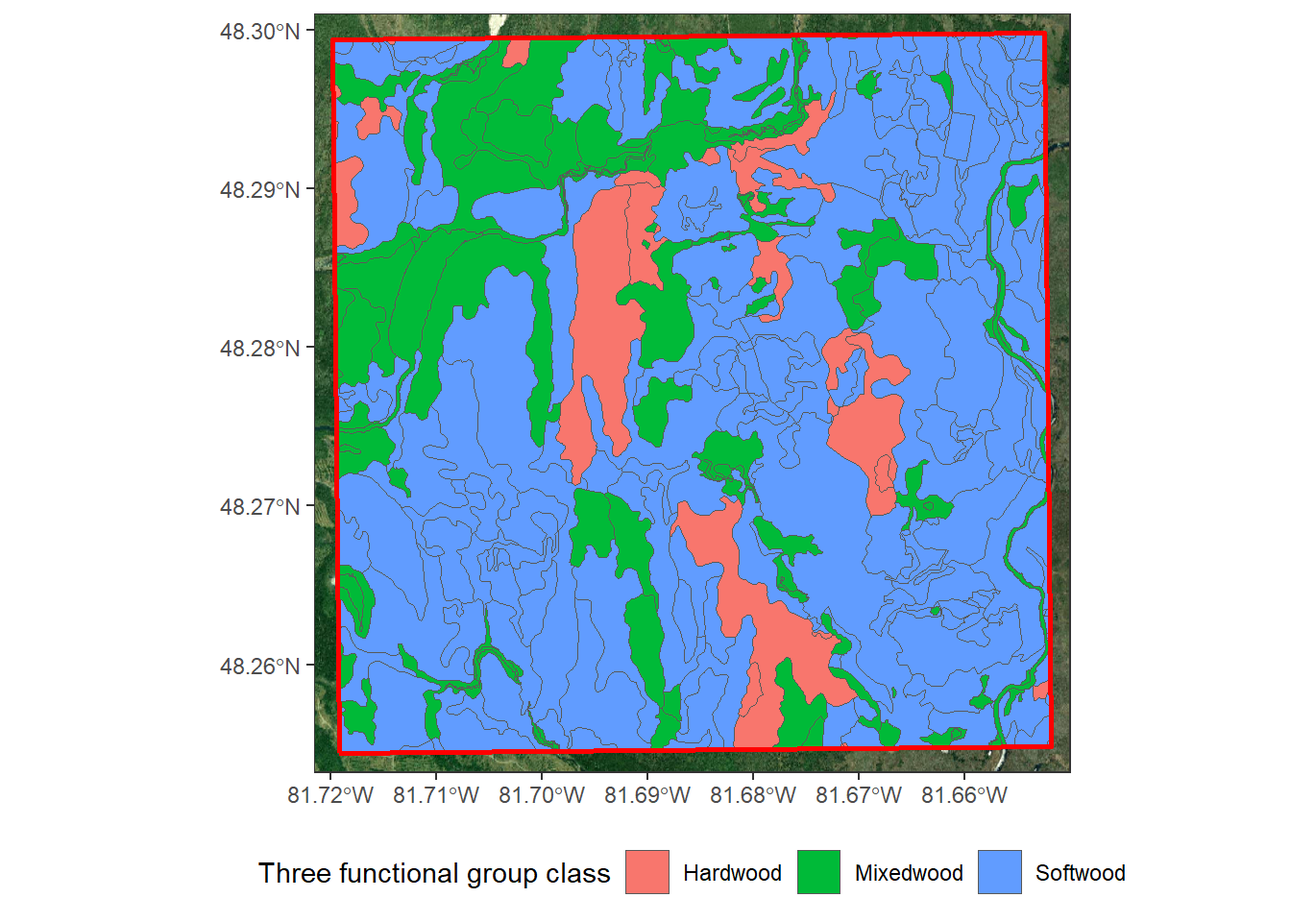
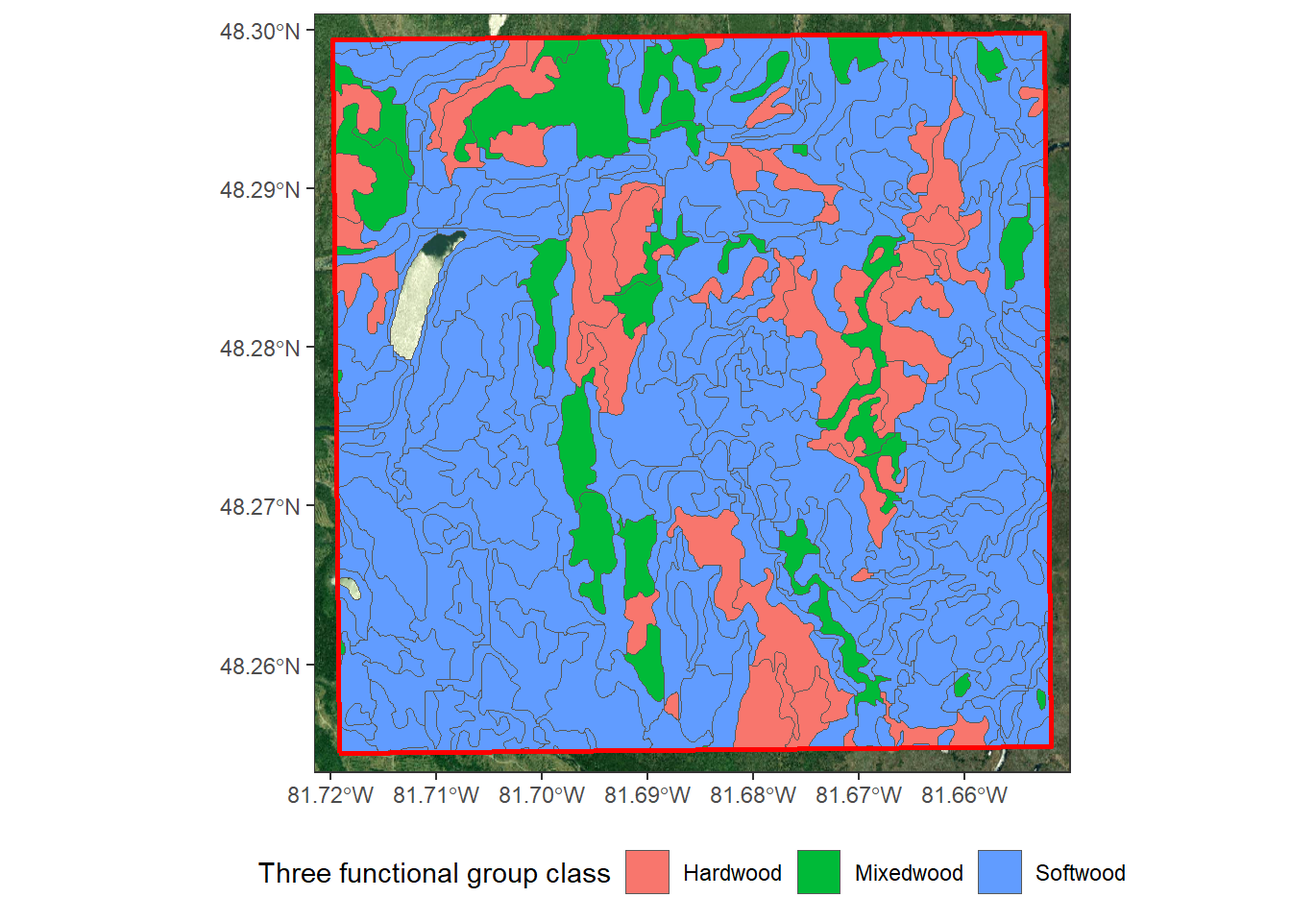
Render site

Changed region(s): [[0.25, 0.0312, 0.8125, 0.8125], [0.5, 0.75, 0.5625, 0.8125]]

diff --git a/docs/project_outputs.html b/docs/project_outputs.html
@@ -153,9 +153,11 @@ window.Quarto = {
     <h2 id="toc-title">On this page</h2>
    
   <ul>
-  <li><a href="#segmentation-results" id="toc-segmentation-results" class="nav-link active" data-scroll-target="#segmentation-results"><strong>1</strong> Automated stand delineation</a></li>
+  <li><a href="#segmentation-results" id="toc-segmentation-results" class="nav-link active" data-scroll-target="#segmentation-results"><strong>1</strong> Automated stand delineation</a>
+  <ul class="collapse">
   <li><a href="#segmentation-results-fmu" id="toc-segmentation-results-fmu" class="nav-link" data-scroll-target="#segmentation-results-fmu"><strong>1.1</strong> Delineation products at the Forest Management Unit scale</a></li>
   <li><a href="#segmentation-results-example" id="toc-segmentation-results-example" class="nav-link" data-scroll-target="#segmentation-results-example"><strong>1.2</strong> Additionnal parameters</a></li>
+  </ul></li>
   <li><a href="#attribute-table-results" id="toc-attribute-table-results" class="nav-link" data-scroll-target="#attribute-table-results"><strong>2</strong> Example of the final attributed polygon dataset</a>
   <ul class="collapse">
   <li><a href="#attribute-table-results-imputation" id="toc-attribute-table-results-imputation" class="nav-link" data-scroll-target="#attribute-table-results-imputation"><strong>2.1</strong> Imputation results</a></li>
@@ -167,9 +169,9 @@ window.Quarto = {
   <li><a href="#internal-polygon-homogeneity" id="toc-internal-polygon-homogeneity" class="nav-link" data-scroll-target="#internal-polygon-homogeneity"><strong>3.3</strong> Internal polygon homogeneity</a></li>
   <li><a href="#correspondence-structural-transition" id="toc-correspondence-structural-transition" class="nav-link" data-scroll-target="#correspondence-structural-transition"><strong>3.4</strong> Correspondence of stand boundaries with structural transitions</a></li>
   </ul></li>
-  <li><a href="#final-polygon" id="toc-final-polygon" class="nav-link" data-scroll-target="#final-polygon"><strong>3</strong> Final polygon-based eFRI products and tools</a></li>
-  <li><a href="#interactive-tool" id="toc-interactive-tool" class="nav-link" data-scroll-target="#interactive-tool"><strong>4</strong> Interactive automated stand delineation tool</a></li>
-  <li><a href="#additionnal-data" id="toc-additionnal-data" class="nav-link" data-scroll-target="#additionnal-data"><strong>5</strong> Additionnal data</a></li>
+  <li><a href="#final-polygon" id="toc-final-polygon" class="nav-link" data-scroll-target="#final-polygon"><strong>4</strong> Final polygon-based eFRI products and tools</a></li>
+  <li><a href="#interactive-tool" id="toc-interactive-tool" class="nav-link" data-scroll-target="#interactive-tool"><strong>5</strong> Interactive automated stand delineation tool</a></li>
+  <li><a href="#additionnal-data" id="toc-additionnal-data" class="nav-link" data-scroll-target="#additionnal-data"><strong>6</strong> Additionnal data</a></li>
   </ul>
 </nav>
     </div>
@@ -203,7 +205,7 @@ window.Quarto = {
 
 <section id="segmentation-results" class="level1 unnumbered">
 <h1 class="unnumbered"><strong>1</strong> Automated stand delineation</h1>
-<p>In this section and the <a href="#attribute-table-results">next one</a>, the “SPL + S2 red edge” segmentation model was use. As a reminder, the metrics used for this model are theses one : z_p95 + z_above2 + B6. There is a visual example of the metrics used in the <a href="#segmentation-results-example">section 1.2</a>. For both the Romeo Malette Forest (RMF) and Ottawa Valley Forest (OVF), distribution of area and shape index will be showed for the whole Forest Management Unit scale (in yellow in the figure 1 and 2). Furthermore, a visual example of resulting automated stand delineation that was smoothed in ArcGIS will be shown for a closer subset area (in red in the figure 1 and 2). The restricted area of 5x5 km allows for easier visualization.</p>
+<p>In this section and the <a href="#attribute-table-results">next one</a>, the “SPL + S2 red edge” segmentation model was use. As a reminder, the metrics used for this model are theses one : z_p95 + z_above2 + B6. There is a visual example of the metrics used in the <a href="./data_and_method.html#Segmentation-generation">section 2.4 of Data and Methods</a>. For both the Romeo Malette Forest (RMF) and Ottawa Valley Forest (OVF), distribution of area and shape index will be showed for the whole Forest Management Unit scale (in yellow in the figure 1 and 2). Furthermore, a visual example of resulting automated stand delineation that was smoothed in ArcGIS will be shown for a closer subset area (in red in the figure 1 and 2). The restricted area of 5x5 km allows for easier visualization.</p>
 <div class="cell">
 <div class="cell-output-display">
 <div id="fig-study-area-subset-rmf" class="quarto-float quarto-figure quarto-figure-center anchored">
@@ -232,9 +234,8 @@ Figure&nbsp;2. Restricted area of 5x5 km in Ottawa Valley Forest.
 </div>
 </div>
 </div>
-</section>
-<section id="segmentation-results-fmu" class="level1 unnumbered">
-<h1 class="unnumbered"><strong>1.1</strong> Delineation products at the Forest Management Unit scale</h1>
+<section id="segmentation-results-fmu" class="level2 unnumbered">
+<h2 class="unnumbered anchored" data-anchor-id="segmentation-results-fmu"><strong>1.1</strong> Delineation products at the Forest Management Unit scale</h2>
 <p>The next figure provide an overview of the resulting smoothed automated stand delineation for RMF in the restricted areas of 5x5 km.</p>
 <div class="cell">
 <div class="cell-output-display">
@@ -298,7 +299,7 @@ Figure&nbsp;6. Photo-interpreted forest inventory polygons for the Forest Manage
 <p>The automated stand delineations can be now compared to photo-interpreted forest inventory polygons for the whole Forest Management Units. Density plots are used to assess whether the distribution of the size and shape are similar. Based on previous parameters obtained by the <a href="https://metafor-ulaval.github.io/Ontario_eFRI/segmentation_parameters_optimisation.html">segmentation parameters optimisation</a>, the difference between distributions are supposed to be minimal and therefore the automated stand delineation should represent operationally plausible forest stand that mimic polygons of the photo-interpreted forest inventory polygons.</p>
 <p>Area in hectare is use for size and shape index is use to assess polygon shape. The shape index is determine by this formula :</p>
 <p><span class="math display">\[
-ShapeIndex = \frac{\text{Perimeter}}{2\sqrt{\pi \times \text{Area}}}
+ShapeIndex = \frac{\text{Perimeter}}{\sqrt{\pi \times \text{Area}}}
 \]</span></p>
 <p>The density plot were computed at the pixel level and are therefore area-weighted.</p>
 <div class="cell">
@@ -358,8 +359,8 @@ Figure&nbsp;10. Polygon shape index density of photo-interpreted forest inventor
 </div>
 </div>
 </section>
-<section id="segmentation-results-example" class="level1 unnumbered">
-<h1 class="unnumbered"><strong>1.2</strong> Additionnal parameters</h1>
+<section id="segmentation-results-example" class="level2 unnumbered">
+<h2 class="unnumbered anchored" data-anchor-id="segmentation-results-example"><strong>1.2</strong> Additionnal parameters</h2>
 <p>It is recommended to perform a smoothing step that can be made later in ArcGIS Pro or any GIS with a smoothing tool that keep the topology of adjacent polygons. The tool use in this case is “Smooth Polygon” of the toolbox “Cartography”. The parameters used are as follow :</p>
 <ul>
 <li>algorithm = “PAEK”;</li>
@@ -428,6 +429,7 @@ Figure&nbsp;14. Resulting polygon after the masks applications.
 </div>
 </div>
 </section>
+</section>
 <section id="attribute-table-results" class="level1 unnumbered">
 <h1 class="unnumbered"><strong>2</strong> Example of the final attributed polygon dataset</h1>
 <p>In addition to producing automated stand delineations, the project generated attributed polygon datasets intended to support forest inventory applications. Each polygon is associated with forest attributes obtained directly from available geospatial datasets or estimated using the procedures described in the Data and Methods section.</p>
@@ -449,13 +451,13 @@ Figure&nbsp;15. Forest age
 </div>
 <div class="cell">
 <div class="cell-output-display">
-<div id="fig-eFRI-attibut-last-perturbation" class="quarto-float quarto-figure quarto-figure-center anchored">
+<div id="fig-eFRI-attibut-last-disturbance" class="quarto-float quarto-figure quarto-figure-center anchored">
 <figure class="quarto-float quarto-float-fig figure">
-<div aria-describedby="fig-eFRI-attibut-last-perturbation-caption-0ceaefa1-69ba-4598-a22c-09a6ac19f8ca">
-<img src="project_outputs_files/figure-html/fig-eFRI-attibut-last-perturbation-1.png" class="img-fluid figure-img" width="672">
+<div aria-describedby="fig-eFRI-attibut-last-disturbance-caption-0ceaefa1-69ba-4598-a22c-09a6ac19f8ca">
+<img src="project_outputs_files/figure-html/fig-eFRI-attibut-last-disturbance-1.png" class="img-fluid figure-img" width="672">
 </div>
-<figcaption class="quarto-float-caption-bottom quarto-float-caption quarto-float-fig" id="fig-eFRI-attibut-last-perturbation-caption-0ceaefa1-69ba-4598-a22c-09a6ac19f8ca">
-Figure&nbsp;16. Year of last perturbation
+<figcaption class="quarto-float-caption-bottom quarto-float-caption quarto-float-fig" id="fig-eFRI-attibut-last-disturbance-caption-0ceaefa1-69ba-4598-a22c-09a6ac19f8ca">
+Figure&nbsp;16. Year of last disturbance
 </figcaption>
 </figure>
 </div>
@@ -581,12 +583,12 @@ Table&nbsp;1. Imputation combinations and their accuracy for the tree imputed va
 <p>The map below shows the imputed three functional group class (softwood, hardwood and mixedwood). The map at the right show the reference layer used to impute this variable. Even if the accuracy of this imputed variable is quite high, at 73.65 %, the map illustrate that there is still some discrepancy between the reference layer and the automated stand delineation. As there is more and more raster layers characterizing tree species with modeling like Random Forest, and at a quite high accuracy, we therefore recommend to directly extract theses attributes where the segmented polygon are. Theses attributes, like tree species, could therefore be used to infer other information like the tree functionial group class shown below.</p>
 <div class="cell">
 <div class="cell-output-display">
-<div id="fig-imputation-segmentation" class="quarto-float quarto-figure quarto-figure-center anchored">
+<div id="fig-imputation-fri" class="quarto-float quarto-figure quarto-figure-center anchored">
 <figure class="quarto-float quarto-float-fig figure">
-<div aria-describedby="fig-imputation-segmentation-caption-0ceaefa1-69ba-4598-a22c-09a6ac19f8ca">
-<img src="project_outputs_files/figure-html/fig-imputation-segmentation-1.png" class="img-fluid figure-img" width="672">
+<div aria-describedby="fig-imputation-fri-caption-0ceaefa1-69ba-4598-a22c-09a6ac19f8ca">
+<img src="project_outputs_files/figure-html/fig-imputation-fri-1.png" class="img-fluid figure-img" width="672">
 </div>
-<figcaption class="quarto-float-caption-bottom quarto-float-caption quarto-float-fig" id="fig-imputation-segmentation-caption-0ceaefa1-69ba-4598-a22c-09a6ac19f8ca">
+<figcaption class="quarto-float-caption-bottom quarto-float-caption quarto-float-fig" id="fig-imputation-fri-caption-0ceaefa1-69ba-4598-a22c-09a6ac19f8ca">
 Figure&nbsp;22. Three functional group class of photo-interpreted forest inventory maps
 </figcaption>
 </figure>
@@ -595,13 +597,13 @@ Figure&nbsp;22. Three functional group class of photo-interpreted forest invento
 </div>
 <div class="cell">
 <div class="cell-output-display">
-<div id="fig-imputation-fri" class="quarto-float quarto-figure quarto-figure-center anchored">
+<div id="fig-imputation-segmentation" class="quarto-float quarto-figure quarto-figure-center anchored">
 <figure class="quarto-float quarto-float-fig figure">
-<div aria-describedby="fig-imputation-fri-caption-0ceaefa1-69ba-4598-a22c-09a6ac19f8ca">
-<img src="project_outputs_files/figure-html/fig-imputation-fri-1.png" class="img-fluid figure-img" width="672">
+<div aria-describedby="fig-imputation-segmentation-caption-0ceaefa1-69ba-4598-a22c-09a6ac19f8ca">
+<img src="project_outputs_files/figure-html/fig-imputation-segmentation-1.png" class="img-fluid figure-img" width="672">
 </div>
-<figcaption class="quarto-float-caption-bottom quarto-float-caption quarto-float-fig" id="fig-imputation-fri-caption-0ceaefa1-69ba-4598-a22c-09a6ac19f8ca">
-Figure&nbsp;23. Imputation results for three functional group
+<figcaption class="quarto-float-caption-bottom quarto-float-caption quarto-float-fig" id="fig-imputation-segmentation-caption-0ceaefa1-69ba-4598-a22c-09a6ac19f8ca">
+Figure&nbsp;23. Three functional group class of automated stand delineations
 </figcaption>
 </figure>
 </div>
@@ -629,6 +631,7 @@ Figure&nbsp;24. Example validation area showing the photo-interpreted forest inv
 </div>
 </div>
 </div>
+<p><a href="#fig-visualisation-s1" class="quarto-xref">Figure&nbsp;24</a> shows a closed-canopy area where structural transitions are mostly gradual. The delineations based on SPL metrics (“SPL only” and “SPL + S2 red edge”) closely follow the patch of tall, high-volume forest in the north-east and separate it from the lower and less stocked stands in the south. The photo-interpreted polygons and the “S2 only” delineation capture the same general pattern, but several of their boundaries cross gradients of canopy height and merchantable volume rather than following them. Stem density shows little contrast in this area (approximately 1500 to 1900 stems/ha), so none of the delineations is strongly structured by this attribute.</p>
 <div class="cell">
 <div class="cell-output-display">
 <div id="fig-visualisation-s7" class="quarto-float quarto-figure quarto-figure-center anchored">
@@ -643,6 +646,7 @@ Figure&nbsp;25. Example validation area showing the photo-interpreted forest inv
 </div>
 </div>
 </div>
+<p><a href="#fig-visualisation-s7" class="quarto-xref">Figure&nbsp;25</a> shows a contrasted landscape where open, low vegetation areas alternate with tall, dense stands. In this situation, the main transitions are captured by all delineations, including the photo-interpreted map. The delineations based on SPL metrics further subdivide the forested areas according to differences in canopy height and merchantable volume, for example by isolating the high-volume stand on the west side from the lower stands surrounding it. The “S2 only” delineation mainly follows the spectral contrast between open and forested areas and tends to group stands that differ in structure into larger polygons.</p>
 </section>
 <section id="partitioning-forest-attribute-variability" class="level2 unnumbered">
 <h2 class="unnumbered anchored" data-anchor-id="partitioning-forest-attribute-variability"><strong>3.2</strong> Partitioning of forest-attribute variability</h2>
@@ -661,6 +665,7 @@ Figure&nbsp;26. Performance of automated stand delineations in partitioning fore
 </div>
 </div>
 </div>
+<p>As shown in <a href="#fig-pve" class="quarto-xref">Figure&nbsp;26</a>, the two delineations based on SPL metrics explained more of the variability of the reference forest attributes than the photo-interpreted map in nearly all cases. Gains were larger in OVF, ranging from +3.5 to +9.2 percentage points, with the largest improvements for canopy height and QMDBH. In RMF, the “SPL only” delineation provided consistent gains (+2.3 to +6.8 percentage points), while the “SPL + S2 red edge” delineation performed similarly to the photo-interpreted map (-2.2 to +1.2 percentage points). In contrast, the “S2 only” delineation systematically explained less variability than the photo-interpreted map, with losses of 9.6 to 26.8 percentage points. Spectral information alone is therefore not sufficient to partition forest structure, whereas structural information from SPL is the main driver of the gains observed.</p>
 </section>
 <section id="internal-polygon-homogeneity" class="level2 unnumbered">
 <h2 class="unnumbered anchored" data-anchor-id="internal-polygon-homogeneity"><strong>3.3</strong> Internal polygon homogeneity</h2>
@@ -679,6 +684,7 @@ Figure&nbsp;27. Performance of automated stand delineations in improving interna
 </div>
 </div>
 </div>
+<p>The results for internal homogeneity (<a href="#fig-ih" class="quarto-xref">Figure&nbsp;27</a>) closely mirror those obtained for PVE. In OVF, both delineations based on SPL metrics produced polygons that were more homogeneous than the photo-interpreted ones for all attributes, with reductions of wSD between 4.6 % and 8.6 %. In RMF, the “SPL only” delineation also improved homogeneity for all attributes (+3.0 % to +8.6 %), the largest gain being for merchantable volume, while the “SPL + S2 red edge” delineation remained close to the photo-interpreted map (-1.4 % to +1.8 %). The “S2 only” delineation produced markedly more variable polygons in both Forest Management Units (-11.3 % to -27.4 %).</p>
 </section>
 <section id="correspondence-structural-transition" class="level2 unnumbered">
 <h2 class="unnumbered anchored" data-anchor-id="correspondence-structural-transition"><strong>3.4</strong> Correspondence of stand boundaries with structural transitions</h2>
@@ -697,10 +703,12 @@ Figure&nbsp;28. Performance of automated stand delineations in improving corresp
 </div>
 </div>
 </div>
+<p>The correspondence between stand boundaries and structural transitions (<a href="#fig-smw" class="quarto-xref">Figure&nbsp;28</a>) shows the largest differences between Forest Management Units. In OVF, the delineations based on SPL metrics strongly improved the correspondence with detected transitions, particularly for canopy height (+29.5 % and +34.1 %) and QMDBH (+27.9 % and +35.9 %). The “SPL + S2 red edge” delineation performed best for three of the four attributes. In RMF, improvements were limited: the “SPL only” delineation improved correspondence for merchantable volume (+12.8 %) but was close to the photo-interpreted map for the other attributes, and the “SPL + S2 red edge” delineation showed slightly poorer correspondence for merchantable volume (-5.9 %) and stem density (-8.6 %). The “S2 only” delineation had poorer correspondence than the photo-interpreted map in both Forest Management Units, with the largest losses in OVF (-18.6 % to -30.1 %).</p>
+<p>Overall, the three criteria lead to consistent conclusions. Automated stand delineations based on SPL metrics performed as well as or better than the photo-interpreted forest inventory map, with clear gains in OVF and more modest gains in RMF. The “SPL only” model was the most consistent across Forest Management Units, while adding the Sentinel-2 red edge band improved boundary correspondence in OVF but not in RMF. Delineations based only on Sentinel-2 imagery performed systematically worse than the photo-interpreted map and are not recommended for structural stand delineation.</p>
 </section>
 </section>
 <section id="final-polygon" class="level1 unnumbered">
-<h1 class="unnumbered"><strong>3</strong> Final polygon-based eFRI products and tools</h1>
+<h1 class="unnumbered"><strong>4</strong> Final polygon-based eFRI products and tools</h1>
 <p>The final polygon-based eFRI products developed through the project are available below for both Forest Management Units. The datasets include the automated stand delineations and associated polygon-level forest attributes. An interactive application is also provided to facilitate visualization and exploration of the project outputs. <a href="téléchargement du produit final">Romeo Malette Forest</a></p>
 <ul>
 <li>éventuellement métadonnées / description des champs.</li>
@@ -711,11 +719,11 @@ Figure&nbsp;28. Performance of automated stand delineations in improving corresp
 </ul>
 </section>
 <section id="interactive-tool" class="level1 unnumbered">
-<h1 class="unnumbered"><strong>4</strong> Interactive automated stand delineation tool</h1>
+<h1 class="unnumbered"><strong>5</strong> Interactive automated stand delineation tool</h1>
 <p>• lien vers la Shiny app • une phrase expliquant ce qu’elle permet de faire.</p>
 </section>
 <section id="additionnal-data" class="level1 unnumbered">
-<h1 class="unnumbered"><strong>5</strong> Additionnal data</h1>
+<h1 class="unnumbered"><strong>6</strong> Additionnal data</h1>
 <ul>
 <li>Lien vers le code ou la documentation technique</li>
 </ul>

diff --git a/docs/data_and_method.html b/docs/data_and_method.html
@@ -219,7 +219,7 @@ window.Quarto = {
 <li>Optimization of segmentation parameters</li>
 <li>Generation of Forest Management Unit-wide delineations</li>
 </ul>
-<p>2.Construction of the polygon attribute table (<a href="#attribute_table">Section 3</a>)</p>
+<p>2.Construction of the polygon attribute table (<a href="#attribute-table">Section 3</a>)</p>
 <ul>
 <li>Input data</li>
 <li>Direct assignment of available forest attributes</li>
@@ -474,9 +474,9 @@ Figure&nbsp;11. Basal area (m²/ha), tree cross sectional area (approximated as 
 <li><p>Most frequent landcover type (POLYTYPE) → The most frequent landcover class based on landcover raster;</p></li>
 <li><p>Most frequent landcover proportion (POLYTYPEPROP) → The proportion (%) of the most frequent landcover class based on landcover raster;</p></li>
 <li><p>Forest age (AGE) → Mean forest age (year) at year of produced data based on a forest age raster layer;</p></li>
-<li><p>Year of last perturbation (YRDEP) → Year of the last perturbation where at least 80 % of polygon stand was affected;</p></li>
-<li><p>Type of last perturbation (DEPTYPE) → Type of perturbation : FIRE or HARVEST;</p></li>
-<li><p>Proportion of last perturbation (DEPPROP) → Proportion (%) of the last perturbation;</p></li>
+<li><p>Year of last disturbance (YRDEP) → Year of the last disturbance where at least 80 % of polygon stand was affected;</p></li>
+<li><p>Type of last disturbance (DEPTYPE) → Type of disturbance : FIRE or HARVEST;</p></li>
+<li><p>Proportion of last disturbance (DEPPROP) → Proportion (%) of the last disturbance;</p></li>
 <li><p>Year of most widespread harvest (YRHARVEST) → Year where a harvest covered the largest proportion of stand polygon;</p></li>
 <li><p>Proportion of most widespread harvest (HARVESTPROP) → Proportion (%) of the harvest at the year where it covered the largest proportion of stand polygon;</p></li>
 <li><p>Year of most widespread forest fire (YRFIRE) → Year where a fire covered the largest proportion of stand polygon;</p></li>
@@ -494,7 +494,7 @@ Figure&nbsp;11. Basal area (m²/ha), tree cross sectional area (approximated as 
 <section id="imputation" class="level2 unnumbered">
 <h2 class="unnumbered anchored" data-anchor-id="imputation"><strong>3.3</strong> Imputation using a k-nearest neighbour (kNN) approach</h2>
 <p>Some attributes can’t be directly extracted from a raster layer containing the information. For example, there is still no layer describing tree species across Ontario. For this task, <a href="https://www.sciencedirect.com/science/article/pii/S0034425721001954?via%3Dihub">k-nearest neighbor (kNN) imputation</a> can be used to infer what would be some attributes. This widely used method use similarity between variables from two different datasets. In order to fill a missing data, the algorithm identifies the k most similar observations based on distance of common variables. The missing values are then estimated using the corresponding values from these neighbors, often by taking their mean (for numerical variables) or mode (for categorical variables).</p>
-<p>To identify the most suitable metrics for kNN imputation, a performance analysis was conducted using all possible combinations of five uncorrelated metrics. The combinaison with the highest accuracy was retain as the one using the best metrics. This analysis was done for each variable being imputed and each forest. This analysis evaluated, for each combination, how accurately the imputed values matched the observed values of the photo-interpreted forest inventory polygons. First of all, polygons intersecting a fire or a harvest whose year falls between the year of photo-interpretation and the year of LiDAR acquisition were removed. Indeed the photo-intepreted polygons no longer describe what the LiDAR metrics saw. Secondly, only forested polygon were retain by applying four filters. The polygons where column “POLYTYPE” was “FOR” were retain, where the proportion forested was higher than 50 % based on <a href="(https://opendata.rcmrd.org/documents/7aa998fdf100434da27a41f1c637382c/about)">landcover raster</a>, where the z_p95 was higher or equal than 5 m and where pz_above2 was higher or equal than 0,5. Finally, to filter correlated metrics, clustering was performed with of a threshold of 0,8. For every metric of a cluster, a one-way ANOVA was run with the imputed variable in order to keep the metric with the highest F-value inside each cluster. Depending of the variable being imputed, 7865 or 9633 combinations of five metrics were tested. Therefore, the optimal combination of metrics depends on the specific variable being imputed. In addition, for each of these 5 metrics, the X and Y coordinates of polygon centroid have been used for the imputation.</p>
+<p>To identify the most suitable metrics for kNN imputation, a performance analysis was conducted using all possible combinations of five uncorrelated metrics. The combinaison with the highest accuracy was retain as the one using the best metrics. This analysis was done for each variable being imputed and each forest. This analysis evaluated, for each combination, how accurately the imputed values matched the observed values of the photo-interpreted forest inventory polygons. First of all, polygons intersecting a fire or a harvest whose year falls between the year of photo-interpretation and the year of LiDAR acquisition were removed. Indeed the photo-intepreted polygons no longer describe what the LiDAR metrics saw. Secondly, only forested polygon were retain by applying four filters. The polygons where column “POLYTYPE” was “FOR” were retain, where the proportion forested was higher than 50 % based on <a href="https://opendata.rcmrd.org/documents/7aa998fdf100434da27a41f1c637382c/about">landcover raster</a>, where the z_p95 was higher or equal than 5 m and where pz_above2 was higher or equal than 0,5. Finally, to filter correlated metrics, clustering was performed with of a threshold of 0,8. For every metric of a cluster, a one-way ANOVA was run with the imputed variable in order to keep the metric with the highest F-value inside each cluster. Depending of the variable being imputed, 7865 or 9633 combinations of five metrics were tested. Therefore, the optimal combination of metrics depends on the specific variable being imputed. In addition, for each of these 5 metrics, the X and Y coordinates of polygon centroid have been used for the imputation.</p>
 </section>
 </section>
 <section id="performance-assessment" class="level1 unnumbered">
